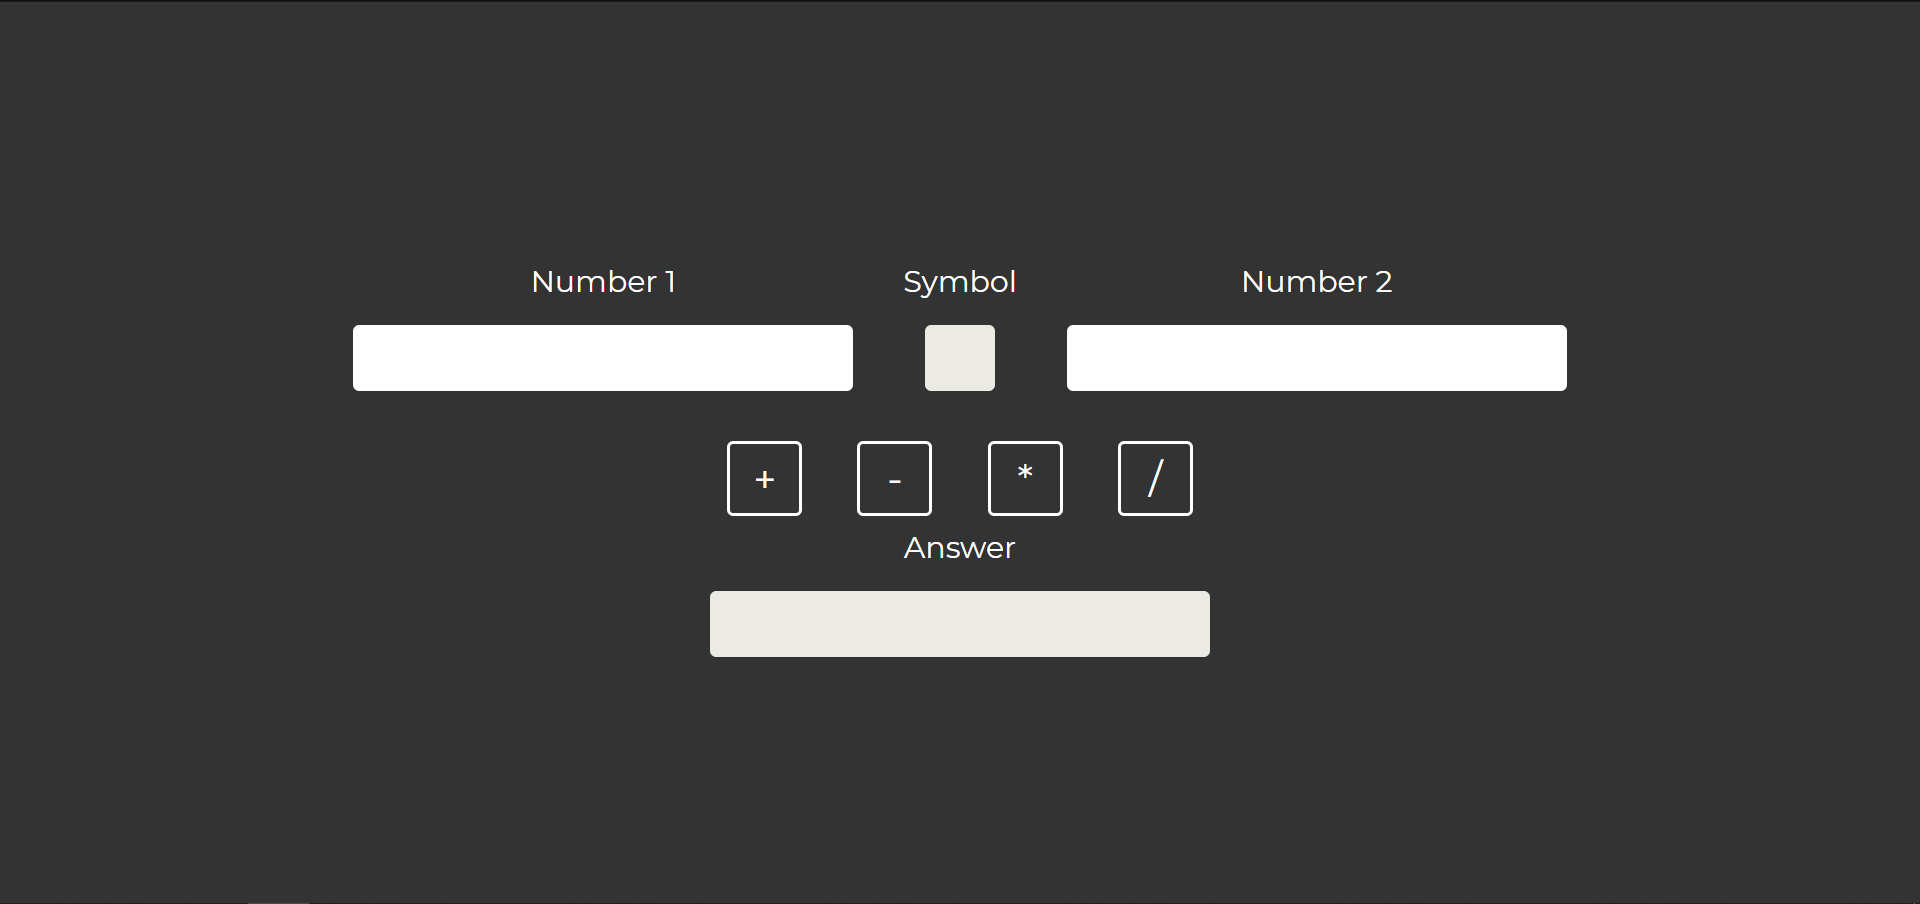
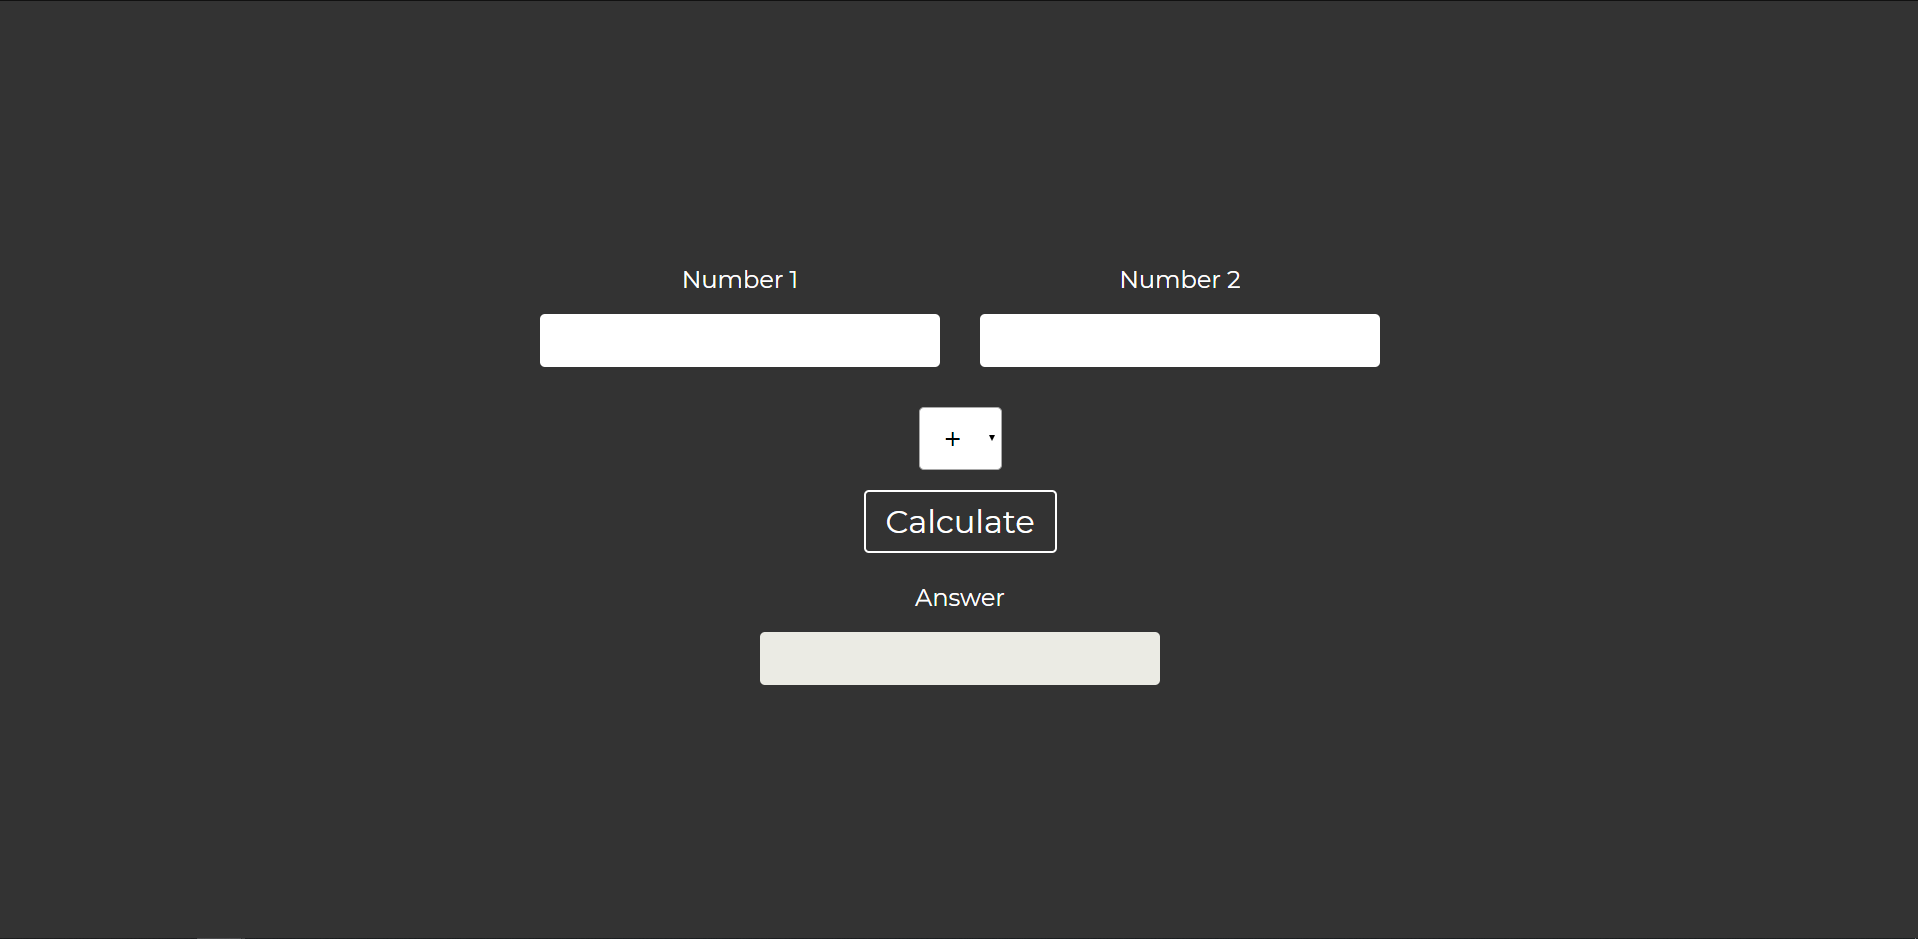
made a dropdown for the calculator

diff --git a/index.html b/index.html
@@ -23,7 +23,8 @@
             </div>
             <div class="card-info">
                 <h3>Hello Name</h3>
-                <p>This is the first project in javascript I've done. It alerts the text/name in the input, and says
+                <p>This is the first project in javascript I've done. It alerts the text/name in the input,
+                    and says
                     hello.</p>
             </div>
             <div class="card-footer">
@@ -63,7 +64,8 @@
             </div>
             <div class="card-info">
                 <h3>Three color buttons</h3>
-                <p>By clicking the button it alerts you what you picked and changes the background color.</p>
+                <p>By clicking the button it alerts you what you picked and changes the background color.
+                </p>
             </div>
             <div class="card-footer">
                 <a class="btn" href="Three color buttons/index.html">Open project</a>
@@ -76,7 +78,8 @@
             </div>
             <div class="card-info">
                 <h3>Guess the number</h3>
-                <p>Try to guess a number between 0 and 20. You can play it again and again if you want and it resets
+                <p>Try to guess a number between 0 and 20. You can play it again and again if you want and
+                    it resets
                     every time</p>
             </div>
             <div class="card-footer">

diff --git a/Calculator/index.html b/Calculator/index.html
@@ -19,19 +19,19 @@
                 <input type="number" name="number1" id="number1">
             </div>
             <div class="col">
-                <label for="symbol">Symbol</label>
-                <input name="symbol" id="symbol" disabled>
-            </div>
-            <div class="col">
                 <label for="number2">Number 2</label>
                 <input type="number" name="number2" id="number2">
             </div>
         </div>
-        <div class="row">
-            <button id="addition">+</button>
-            <button id="subtract">-</button>
-            <button id="multiply">*</button>
-            <button id="division">/</button>
+        <div class="col">
+            <select id="select">
+                <option id="addition" value="addition">+</option>
+                <option id="subtract" value="subtract">-</option>
+                <option id="multiply" value="multiply">*</option>
+                <option id="division" value="division">/</option>
+            </select>
+
+            <button id="calculate">Calculate</button>
         </div>
         <div class="col">
             <label for="answer">Answer</label>
@@ -39,7 +39,7 @@
         </div>
     </div>
 
-    <script src="scipt.js"></script>
+    <script src="script.js"></script>
 </body>
 
 </html>

diff --git a/Calculator/script.js b/Calculator/script.js
@@ -1,0 +1,26 @@
+let num1 = document.getElementById("number1");
+let num2 = document.getElementById("number2");
+let answer = document.getElementById("answer");
+
+let addition = document.getElementById("addition");
+let subtract = document.getElementById("subtract");
+let multiply = document.getElementById("multiply");
+let division = document.getElementById("division");
+
+let select = document.getElementById("select");
+
+let calculate = document.getElementById("calculate");
+
+calculate.addEventListener('click', calcFunction);
+
+function calcFunction() {
+    if (select.value === 'addition') {
+        answer.value = parseFloat(num1.value) + parseFloat(num2.value);
+    } else if (select.value === 'subtract') {
+        answer.value = parseFloat(num1.value) - parseFloat(num2.value);
+    } else if (select.value === 'multiply') {
+        answer.value = parseFloat(num1.value) * parseFloat(num2.value);
+    } else if (select.value === 'division') {
+        answer.value = parseFloat(num1.value) / parseFloat(num2.value);
+    }
+}

diff --git a/Calculator/css/style.scss b/Calculator/css/style.scss
@@ -45,6 +45,12 @@ body {
         font-size: 2em;
     }
 
+    select {
+        border-radius: 5px;
+        padding: 10px 20px;
+        font-size: 2em;
+    }
+
     #symbol {
         width: 56px !important;
     }
@@ -55,8 +61,7 @@ body {
     }
 
     button {
-        width: 60px;
-        height: 60px;
+        padding: 10px 20px;
         cursor: pointer;
         border-radius: 5px;
         border: 2px solid #fff;
@@ -65,10 +70,12 @@ body {
         font-size: 2em;
         margin: 0 20px;
         outline: none;
+        margin: 20px 0;
+        transition: .2s;
 
         &:hover {
-            border-color: #aaa;
-            color: #aaa;
+            background: #fff;
+            color: #333;
         }
     }
 }

diff --git a/Calculator/css/style.css b/Calculator/css/style.css
@@ -65,6 +65,12 @@ body {
   font-size: 2em;
 }
 
+.calculator select {
+  border-radius: 5px;
+  padding: 10px 20px;
+  font-size: 2em;
+}
+
 .calculator #symbol {
   width: 56px !important;
 }
@@ -75,8 +81,7 @@ body {
 }
 
 .calculator button {
-  width: 60px;
-  height: 60px;
+  padding: 10px 20px;
   cursor: pointer;
   border-radius: 5px;
   border: 2px solid #fff;
@@ -85,11 +90,14 @@ body {
   font-size: 2em;
   margin: 0 20px;
   outline: none;
+  margin: 20px 0;
+  -webkit-transition: .2s;
+  transition: .2s;
 }
 
 .calculator button:hover {
-  border-color: #aaa;
-  color: #aaa;
+  background: #fff;
+  color: #333;
 }
 
 /*

diff --git a/src/css/style.scss b/src/css/style.scss
@@ -65,10 +65,11 @@ body {
                 .btn {
                     background: #333;
                     color: #fff;
-                    padding: 10px;
+                    padding: 10px 20px;
                     height: 36px;
                     text-decoration: none;
                     border-radius: 2px;
+                    text-transform: uppercase;
 
                     &:hover {
                         background: #444;

diff --git a/src/css/style.css b/src/css/style.css
@@ -71,10 +71,11 @@ body .container .card .card-footer {
 body .container .card .card-footer .btn {
   background: #333;
   color: #fff;
-  padding: 10px;
+  padding: 10px 20px;
   height: 36px;
   text-decoration: none;
   border-radius: 2px;
+  text-transform: uppercase;
 }
 
 body .container .card .card-footer .btn:hover {

diff --git a/src/js/init.js b/src/js/init.js
@@ -1,6 +1,7 @@
 var elem = document.querySelector('.grid');
 var msnry = new Masonry(elem, {
     itemSelector: '.grid-item',
+    gutter: 10,
 });
 
 var msnry = new Masonry('.grid', {
